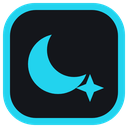
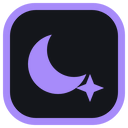
v1.0.2

Changed region(s): [[0.0, 0.0, 1.0, 1.0], [0.2188, 0.25, 0.8125, 0.8125]]

diff --git a/firefox/popup.js b/firefox/popup.js
@@ -30,9 +30,8 @@ const TXT = {
       lists: ['Lista pública de anuncios', 'Suma miles de dominios de publicidad conocidos (lista de Peter Lowe). Se actualiza sola cada 3 días.'],
       ytads: ['Anuncios de YouTube', 'Corta el anuncio al empezar el video; si no puede, va silenciado y a x2. YouTube cambia seguido y puede fallar.'],
       twads: ['Anuncios de Twitch', 'Silencia el anuncio mientras dura y saca los de la portada. En los canales no se pueden quitar con calidad completa.'],
-      tw360: ['Twitch en 360p sin anuncios', 'Necesita "Anuncios de Twitch". Pide todos los directos en 360p, que vienen sin anuncios. Pierde calidad en todos los canales.'],
+      kickads: ['Anuncios de Kick', 'Corta los videos de publicidad y los banners de Kick. El directo sigue con su calidad normal.'],
       vqa: ['YouTube: calidad automática', 'Fija la calidad más alta que aprovecha tu pantalla y tu red (red floja: solo la usa de tope).'],
-      vq: ['YouTube a 480p máx.', 'Usa menos RAM, GPU y datos. Baja la nitidez.'],
     },
   },
   en: {
@@ -66,19 +65,20 @@ const TXT = {
       lists: ['Public ad list', 'Adds thousands of known ad domains (Peter Lowe list). Updates itself every 3 days.'],
       ytads: ['YouTube ads', 'Cuts the ad when the video starts; if it cannot, it plays muted at 2x. YouTube changes often and this can break.'],
       twads: ['Twitch ads', 'Mutes the ad while it lasts and removes the ones on the home page. On channels they cannot be removed at full quality.'],
-      tw360: ['Twitch 360p without ads', 'Needs "Twitch ads". Requests every stream at 360p, which comes without ads. Lowers quality on every channel.'],
+      kickads: ['Kick ads', 'Cuts Kick video ads and banners. The stream keeps its normal quality.'],
       vqa: ['YouTube: auto quality', 'Sets the highest quality your screen and network can use (weak network: only as a cap).'],
-      vq: ['YouTube 480p max', 'Uses less RAM, GPU and data. Lowers sharpness.'],
     },
   },
 };
-const GROUPS = { sleep: ['discard'], guard: ['gramOn', 'gcpuOn', 'ghard'], speed: ['pip', 'motion', 'cpu', 'lazy', 'preload', 'bgvideo', 'fonts', 'images', 'mobile', 'vqa', 'vq'], ads: ['trackers', 'lists', 'ytads', 'twads', 'tw360'] };
+const GROUPS = { sleep: ['discard'], guard: ['gramOn', 'gcpuOn', 'ghard'], speed: ['pip', 'motion', 'cpu', 'lazy', 'preload', 'bgvideo', 'fonts', 'images', 'mobile', 'vqa'], ads: ['trackers', 'lists', 'ytads', 'twads', 'kickads'] };
 
-// Tips: [¿aplica con esta config?, es, en]. Solo aparecen los que todavía no aprovechás.
+// Tips: [¿aplica con esta config?, es, en]. Solo aparecen los que todavía no aprovechás: nunca uno sobre una función de Hiber que ya está activa.
 const COMMON = [
   [(s) => !s.discard, 'Activá "Dormir pestañas" acá: es lo que más memoria libera.', 'Turn on "Sleep tabs" here: it frees the most memory.'],
   [(s) => !s.trackers, 'Activá "Bloquear anuncios": menos red y menos CPU.', 'Turn on "Block ads": less network and CPU.'],
   [(s) => !s.ytads, 'Si mirás mucho YouTube, activá "Anuncios de YouTube".', 'If you watch a lot of YouTube, turn on "YouTube ads".'],
+  [(s) => !s.twads, 'Si mirás Twitch, activá "Anuncios de Twitch".', 'If you watch Twitch, turn on "Twitch ads".'],
+  [(s) => !s.kickads, 'Si mirás Kick, activá "Anuncios de Kick".', 'If you watch Kick, turn on "Kick ads".'],
   [(s) => !s.preload, 'Activá "Deshabilitar precarga de páginas": el navegador deja de bajar páginas que no abrís.', 'Turn on "Disable page preloading": the browser stops fetching pages you don\'t open.'],
   [(s) => !s.motion, 'Activá "Sin animaciones": menos CPU y GPU.', 'Turn on "No animations": less CPU and GPU.'],
   [(s) => !s.images, 'Probá "Sin imágenes": las fotos son lo que más pesa en casi toda web.', 'Try "No images": photos are the heaviest part of most pages.'],
@@ -88,7 +88,6 @@ const BROWSER_TIPS = {
   chrome: [
     [() => true, 'Ajustes › Sistema: apagá "Seguir ejecutando aplicaciones en segundo plano al cerrar Chrome".', 'Settings › System: turn off "Continue running background apps when Chrome is closed".'],
     [() => true, 'Ajustes › Rendimiento: activá "Ahorro de memoria" (Memory Saver); complementa a "Dormir pestañas" de Hiber.', 'Settings › Performance: turn on "Memory Saver"; it complements Hiber\'s "Sleep tabs".'],
-    [() => true, 'Ajustes › Rendimiento (o Privacidad › Cookies): activá "Precargar páginas" (Preload pages) para que navegar se sienta más rápido.', 'Settings › Performance (or Privacy › Cookies): turn on "Preload pages" to make browsing feel faster.'],
     [() => true, 'chrome://flags/#override-cpu-performance-tier: dejalo en "Don\'t override" (no lo fuerces) para que Chrome use el nivel real de tu CPU.', 'chrome://flags/#override-cpu-performance-tier: keep it on "Don\'t override" so Chrome uses your CPU\'s real tier.'],
     [() => true, 'Shift+Esc abre el administrador de tareas de Chrome: ahí ves qué pestaña o extensión pesa.', 'Shift+Esc opens Chrome\'s task manager: see which tab or extension is heavy.'],  ],
   edge: [
@@ -97,21 +96,18 @@ const BROWSER_TIPS = {
     [() => true, 'Shift+Esc: administrador de tareas del navegador. Apagá la barra lateral y Copilot si no los usás.', 'Shift+Esc: browser task manager. Turn off the sidebar and Copilot if you don\'t use them.'],
   ],
   brave: [
-    [(s) => s.trackers, 'Brave Shields ya bloquea anuncios y rastreadores: con Shields en "Agresivo" podés apagar "Bloquear anuncios" acá para no duplicar.', 'Brave Shields already blocks ads and trackers: with Shields on "Aggressive" you can turn off "Block ads" here to avoid doubling up.'],
-    [(s) => s.ytads, 'Brave también corta anuncios de YouTube. Si ves algo raro en YouTube, apagá "Anuncios de YouTube" acá.', 'Brave also blocks YouTube ads. If YouTube acts weird, turn off "YouTube ads" here.'],
     [() => true, 'brave://settings: sacá Rewards, News, Talk, Wallet, VPN y Leo de la barra lateral y de la página nueva: menos procesos.', 'brave://settings: remove Rewards, News, Talk, Wallet, VPN and Leo from the sidebar and new tab page: fewer processes.'],
     [(s) => !s.discard, 'brave://settings/system: activá "Ahorro de memoria" (o "Dormir pestañas" de Hiber).', 'brave://settings/system: turn on "Memory Saver" (or Hiber\'s "Sleep tabs").'],
   ],
   opera: [
     [() => true, 'Si usás Opera GX: en GX Control poné un límite de RAM/CPU y activá "Hot Tabs Killer". Hiber lo complementa.', 'If you use Opera GX: in GX Control set a RAM/CPU limit and turn on "Hot Tabs Killer". Hiber complements it.'],
-    [(s) => s.trackers, 'Opera trae su propio bloqueador (Ajustes › Bloqueador de anuncios). Con uno solo alcanza: si activás el de Opera, apagá "Bloquear anuncios" acá.', 'Opera has its own blocker (Settings › Ad blocker). One is enough: if you turn Opera\'s on, turn off "Block ads" here.'],
     [() => true, 'Apagá GX Corner, los sonidos/música de fondo, Fast Action Links y la VPN gratis si no los usás.', 'Turn off GX Corner, background sounds/music, Fast Action Links and the free VPN if you don\'t use them.'],
     [() => true, 'Shift+Esc: administrador de tareas del navegador.', 'Shift+Esc: browser task manager.'],
   ],
   firefox: [
     [() => true, 'about:processes es el administrador de tareas de Firefox: ahí ves qué pestaña pesa.', 'about:processes is Firefox\'s task manager: see which tab is heavy.'],
     [() => true, 'about:preferences#general › Rendimiento: desmarcá "Usar la configuración de rendimiento recomendada" y bajá el límite de procesos de contenido.', 'about:preferences#general › Performance: untick "Use recommended performance settings" and lower the content process limit.'],
-    [(s) => s.trackers, 'about:preferences#privacy: la Protección antirrastreo "Estricta" complementa a Hiber.', 'about:preferences#privacy: "Strict" Enhanced Tracking Protection complements Hiber.'],
+    [() => true, 'about:preferences#privacy: la Protección antirrastreo "Estricta" complementa a Hiber.', 'about:preferences#privacy: "Strict" Enhanced Tracking Protection complements Hiber.'],
     [() => true, 'Firefox no deja abrir sus ajustes desde una extensión: andá a esas direcciones a mano.', 'Firefox won\'t let extensions open its settings: visit those addresses yourself.'],
   ],
 };

diff --git a/popup.js b/popup.js
@@ -30,9 +30,8 @@ const TXT = {
       lists: ['Lista pública de anuncios', 'Suma miles de dominios de publicidad conocidos (lista de Peter Lowe). Se actualiza sola cada 3 días.'],
       ytads: ['Anuncios de YouTube', 'Corta el anuncio al empezar el video; si no puede, va silenciado y a x2. YouTube cambia seguido y puede fallar.'],
       twads: ['Anuncios de Twitch', 'Silencia el anuncio mientras dura y saca los de la portada. En los canales no se pueden quitar con calidad completa.'],
-      tw360: ['Twitch en 360p sin anuncios', 'Necesita "Anuncios de Twitch". Pide todos los directos en 360p, que vienen sin anuncios. Pierde calidad en todos los canales.'],
+      kickads: ['Anuncios de Kick', 'Corta los videos de publicidad y los banners de Kick. El directo sigue con su calidad normal.'],
       vqa: ['YouTube: calidad automática', 'Fija la calidad más alta que aprovecha tu pantalla y tu red (red floja: solo la usa de tope).'],
-      vq: ['YouTube a 480p máx.', 'Usa menos RAM, GPU y datos. Baja la nitidez.'],
     },
   },
   en: {
@@ -66,19 +65,20 @@ const TXT = {
       lists: ['Public ad list', 'Adds thousands of known ad domains (Peter Lowe list). Updates itself every 3 days.'],
       ytads: ['YouTube ads', 'Cuts the ad when the video starts; if it cannot, it plays muted at 2x. YouTube changes often and this can break.'],
       twads: ['Twitch ads', 'Mutes the ad while it lasts and removes the ones on the home page. On channels they cannot be removed at full quality.'],
-      tw360: ['Twitch 360p without ads', 'Needs "Twitch ads". Requests every stream at 360p, which comes without ads. Lowers quality on every channel.'],
+      kickads: ['Kick ads', 'Cuts Kick video ads and banners. The stream keeps its normal quality.'],
       vqa: ['YouTube: auto quality', 'Sets the highest quality your screen and network can use (weak network: only as a cap).'],
-      vq: ['YouTube 480p max', 'Uses less RAM, GPU and data. Lowers sharpness.'],
     },
   },
 };
-const GROUPS = { sleep: ['discard'], guard: ['gramOn', 'gcpuOn', 'ghard'], speed: ['pip', 'motion', 'cpu', 'lazy', 'preload', 'bgvideo', 'fonts', 'images', 'mobile', 'vqa', 'vq'], ads: ['trackers', 'lists', 'ytads', 'twads', 'tw360'] };
+const GROUPS = { sleep: ['discard'], guard: ['gramOn', 'gcpuOn', 'ghard'], speed: ['pip', 'motion', 'cpu', 'lazy', 'preload', 'bgvideo', 'fonts', 'images', 'mobile', 'vqa'], ads: ['trackers', 'lists', 'ytads', 'twads', 'kickads'] };
 
-// Tips: [¿aplica con esta config?, es, en]. Solo aparecen los que todavía no aprovechás.
+// Tips: [¿aplica con esta config?, es, en]. Solo aparecen los que todavía no aprovechás: nunca uno sobre una función de Hiber que ya está activa.
 const COMMON = [
   [(s) => !s.discard, 'Activá "Dormir pestañas" acá: es lo que más memoria libera.', 'Turn on "Sleep tabs" here: it frees the most memory.'],
   [(s) => !s.trackers, 'Activá "Bloquear anuncios": menos red y menos CPU.', 'Turn on "Block ads": less network and CPU.'],
   [(s) => !s.ytads, 'Si mirás mucho YouTube, activá "Anuncios de YouTube".', 'If you watch a lot of YouTube, turn on "YouTube ads".'],
+  [(s) => !s.twads, 'Si mirás Twitch, activá "Anuncios de Twitch".', 'If you watch Twitch, turn on "Twitch ads".'],
+  [(s) => !s.kickads, 'Si mirás Kick, activá "Anuncios de Kick".', 'If you watch Kick, turn on "Kick ads".'],
   [(s) => !s.preload, 'Activá "Deshabilitar precarga de páginas": el navegador deja de bajar páginas que no abrís.', 'Turn on "Disable page preloading": the browser stops fetching pages you don\'t open.'],
   [(s) => !s.motion, 'Activá "Sin animaciones": menos CPU y GPU.', 'Turn on "No animations": less CPU and GPU.'],
   [(s) => !s.images, 'Probá "Sin imágenes": las fotos son lo que más pesa en casi toda web.', 'Try "No images": photos are the heaviest part of most pages.'],
@@ -88,7 +88,6 @@ const BROWSER_TIPS = {
   chrome: [
     [() => true, 'Ajustes › Sistema: apagá "Seguir ejecutando aplicaciones en segundo plano al cerrar Chrome".', 'Settings › System: turn off "Continue running background apps when Chrome is closed".'],
     [() => true, 'Ajustes › Rendimiento: activá "Ahorro de memoria" (Memory Saver); complementa a "Dormir pestañas" de Hiber.', 'Settings › Performance: turn on "Memory Saver"; it complements Hiber\'s "Sleep tabs".'],
-    [() => true, 'Ajustes › Rendimiento (o Privacidad › Cookies): activá "Precargar páginas" (Preload pages) para que navegar se sienta más rápido.', 'Settings › Performance (or Privacy › Cookies): turn on "Preload pages" to make browsing feel faster.'],
     [() => true, 'chrome://flags/#override-cpu-performance-tier: dejalo en "Don\'t override" (no lo fuerces) para que Chrome use el nivel real de tu CPU.', 'chrome://flags/#override-cpu-performance-tier: keep it on "Don\'t override" so Chrome uses your CPU\'s real tier.'],
     [() => true, 'Shift+Esc abre el administrador de tareas de Chrome: ahí ves qué pestaña o extensión pesa.', 'Shift+Esc opens Chrome\'s task manager: see which tab or extension is heavy.'],  ],
   edge: [
@@ -97,21 +96,18 @@ const BROWSER_TIPS = {
     [() => true, 'Shift+Esc: administrador de tareas del navegador. Apagá la barra lateral y Copilot si no los usás.', 'Shift+Esc: browser task manager. Turn off the sidebar and Copilot if you don\'t use them.'],
   ],
   brave: [
-    [(s) => s.trackers, 'Brave Shields ya bloquea anuncios y rastreadores: con Shields en "Agresivo" podés apagar "Bloquear anuncios" acá para no duplicar.', 'Brave Shields already blocks ads and trackers: with Shields on "Aggressive" you can turn off "Block ads" here to avoid doubling up.'],
-    [(s) => s.ytads, 'Brave también corta anuncios de YouTube. Si ves algo raro en YouTube, apagá "Anuncios de YouTube" acá.', 'Brave also blocks YouTube ads. If YouTube acts weird, turn off "YouTube ads" here.'],
     [() => true, 'brave://settings: sacá Rewards, News, Talk, Wallet, VPN y Leo de la barra lateral y de la página nueva: menos procesos.', 'brave://settings: remove Rewards, News, Talk, Wallet, VPN and Leo from the sidebar and new tab page: fewer processes.'],
     [(s) => !s.discard, 'brave://settings/system: activá "Ahorro de memoria" (o "Dormir pestañas" de Hiber).', 'brave://settings/system: turn on "Memory Saver" (or Hiber\'s "Sleep tabs").'],
   ],
   opera: [
     [() => true, 'Si usás Opera GX: en GX Control poné un límite de RAM/CPU y activá "Hot Tabs Killer". Hiber lo complementa.', 'If you use Opera GX: in GX Control set a RAM/CPU limit and turn on "Hot Tabs Killer". Hiber complements it.'],
-    [(s) => s.trackers, 'Opera trae su propio bloqueador (Ajustes › Bloqueador de anuncios). Con uno solo alcanza: si activás el de Opera, apagá "Bloquear anuncios" acá.', 'Opera has its own blocker (Settings › Ad blocker). One is enough: if you turn Opera\'s on, turn off "Block ads" here.'],
     [() => true, 'Apagá GX Corner, los sonidos/música de fondo, Fast Action Links y la VPN gratis si no los usás.', 'Turn off GX Corner, background sounds/music, Fast Action Links and the free VPN if you don\'t use them.'],
     [() => true, 'Shift+Esc: administrador de tareas del navegador.', 'Shift+Esc: browser task manager.'],
   ],
   firefox: [
     [() => true, 'about:processes es el administrador de tareas de Firefox: ahí ves qué pestaña pesa.', 'about:processes is Firefox\'s task manager: see which tab is heavy.'],
     [() => true, 'about:preferences#general › Rendimiento: desmarcá "Usar la configuración de rendimiento recomendada" y bajá el límite de procesos de contenido.', 'about:preferences#general › Performance: untick "Use recommended performance settings" and lower the content process limit.'],
-    [(s) => s.trackers, 'about:preferences#privacy: la Protección antirrastreo "Estricta" complementa a Hiber.', 'about:preferences#privacy: "Strict" Enhanced Tracking Protection complements Hiber.'],
+    [() => true, 'about:preferences#privacy: la Protección antirrastreo "Estricta" complementa a Hiber.', 'about:preferences#privacy: "Strict" Enhanced Tracking Protection complements Hiber.'],
     [() => true, 'Firefox no deja abrir sus ajustes desde una extensión: andá a esas direcciones a mano.', 'Firefox won\'t let extensions open its settings: visit those addresses yourself.'],
   ],
 };

diff --git a/background.js b/background.js
@@ -14,7 +14,12 @@ const TRACKERS = ['subduepaler.cyou', 'agl003.com', 'slunkenfulgora.click', 'dou
   'effectivegatecpm.com', 'profitableratecpm.com', 'highperformanceformat.com', 'dolohen.com', 'acscdn.com', 'adsco.re', 'cdn4ads.com', 'trafficstars.com', 'popunder.net', 'ay267.com', 'painamour.com', 'catrck.net', 'histats.com', 'exosrv.com', 'magsrv.com', 'pemsrv.com', 'galaksion.com', 'evadav.com', 'clickaine.com', 'adspyglass.com', 'popmyads.com'];
 const POPUNDER = ['catrck.net', 'exosrv.com', 'magsrv.com', 'popmyads.com', 'clickaine.com', '073m.com', 'ay267.com', 'painamour.com', 'popads.net', 'propellerads.com', 'popcash.net', 'clickadu.com', 'hilltopads.net', 'onclickads.net', 'popunder.net', 'propu.sh', 'realsrv.com', 'exoclick.com', 'juicyads.com'];
 const MOBILE_UA = 'Mozilla/5.0 (Linux; Android 14; Pixel 8) AppleWebKit/537.36 (KHTML, like Gecko) Chrome/130.0.0.0 Mobile Safari/537.36';
-const RULE_IDS = [1, 2, 3, 4, 5, 6, 7, 8, 9, 10];
+const RULE_IDS = [1, 2, 3, 4, 5, 6, 7, 8, 9, 10, 11];
+// Kick: el directo (Amazon IVS) no trae anuncios adentro; los videos van por Google IMA (imasdk) y los banners por GPT/doubleclick.
+// Sin el SDK de IMA el reproductor sigue con el directo (probado nov 2026). Solo pedidos que salen de kick.com: no toca otros sitios.
+const KICK_ADS = ['imasdk.googleapis.com', 'doubleclick.net', 'googlesyndication.com', 'googletagservices.com', 'googleadservices.com',
+  '2mdn.net', 'adtrafficquality.google', 'amazon-adsystem.com', 'criteo.com', 'criteo.net', 'openx.net', 'openxcdn.net', 'id5-sync.com',
+  'creativecdn.com', 'pubmatic.com', 'rubiconproject.com', 'adnxs.com'];
 // Rutas típicas de anuncios (complementa la lista de dominios).
 // Sin "/ads/" genérico ni xhr/other: cortaban manifiestos y APIs de reproductores (el video no cargaba hasta recargar).
 const AD_PATH = '^https?://[^/]+/.*(/pagead/|/adserver/|/adframe|/banner[_-]?ads?/|/doubleclick/)';
@@ -92,6 +97,8 @@ async function applyRulesNow() {
     // Afiliados de apuestas (refpa1234.com, rotan de número): ni se cargan como página.
     if (s.trackers) add.push({ id: 8, action: { type: 'block' },
       condition: { regexFilter: '^https?://([^/]*[.])?refpa[0-9]+[.][a-z]+/', resourceTypes: ['main_frame', 'sub_frame'] } });
+    if (s.kickads) add.push({ id: 11, action: { type: 'block' },
+      condition: { requestDomains: KICK_ADS, initiatorDomains: ['kick.com'], resourceTypes: ['script', 'image', 'xmlhttprequest', 'sub_frame', 'ping', 'media', 'other'] } });
     if (s.fonts) add.push({ id: 2, action: { type: 'block' }, condition: { resourceTypes: ['font'] } });
     if (s.images) add.push({ id: 3, action: { type: 'block' }, condition: { resourceTypes: ['image'] } });
     if (s.mobile) add.push({ id: 4, action: { type: 'modifyHeaders', requestHeaders: [
@@ -144,7 +151,9 @@ async function sweep(force, idle, all) {
 async function checkUpdate() {
   if (REPO.startsWith('USUARIO')) return;
   try {
-    const v = (await (await fetch(`https://raw.githubusercontent.com/${REPO}/main/version.txt`, { cache: 'no-store' })).text()).trim();
+    const r = await fetch(`https://raw.githubusercontent.com/${REPO}/main/version.txt`, { cache: 'no-store' });
+    const v = (await r.text()).trim();
+    if (!r.ok || !/^\d+(\.\d+){0,3}$/.test(v)) return; // 404, límite de GitHub o portal cautivo: no guardar basura como versión
     await chrome.storage.local.set({ upd: v });
     const old = newer(v, chrome.runtime.getManifest().version);
     chrome.action.setBadgeText({ text: old ? '!' : '' });

diff --git a/firefox/background.js b/firefox/background.js
@@ -14,7 +14,12 @@ const TRACKERS = ['subduepaler.cyou', 'agl003.com', 'slunkenfulgora.click', 'dou
   'effectivegatecpm.com', 'profitableratecpm.com', 'highperformanceformat.com', 'dolohen.com', 'acscdn.com', 'adsco.re', 'cdn4ads.com', 'trafficstars.com', 'popunder.net', 'ay267.com', 'painamour.com', 'catrck.net', 'histats.com', 'exosrv.com', 'magsrv.com', 'pemsrv.com', 'galaksion.com', 'evadav.com', 'clickaine.com', 'adspyglass.com', 'popmyads.com'];
 const POPUNDER = ['catrck.net', 'exosrv.com', 'magsrv.com', 'popmyads.com', 'clickaine.com', '073m.com', 'ay267.com', 'painamour.com', 'popads.net', 'propellerads.com', 'popcash.net', 'clickadu.com', 'hilltopads.net', 'onclickads.net', 'popunder.net', 'propu.sh', 'realsrv.com', 'exoclick.com', 'juicyads.com'];
 const MOBILE_UA = 'Mozilla/5.0 (Linux; Android 14; Pixel 8) AppleWebKit/537.36 (KHTML, like Gecko) Chrome/130.0.0.0 Mobile Safari/537.36';
-const RULE_IDS = [1, 2, 3, 4, 5, 6, 7, 8, 9, 10];
+const RULE_IDS = [1, 2, 3, 4, 5, 6, 7, 8, 9, 10, 11];
+// Kick: el directo (Amazon IVS) no trae anuncios adentro; los videos van por Google IMA (imasdk) y los banners por GPT/doubleclick.
+// Sin el SDK de IMA el reproductor sigue con el directo (probado nov 2026). Solo pedidos que salen de kick.com: no toca otros sitios.
+const KICK_ADS = ['imasdk.googleapis.com', 'doubleclick.net', 'googlesyndication.com', 'googletagservices.com', 'googleadservices.com',
+  '2mdn.net', 'adtrafficquality.google', 'amazon-adsystem.com', 'criteo.com', 'criteo.net', 'openx.net', 'openxcdn.net', 'id5-sync.com',
+  'creativecdn.com', 'pubmatic.com', 'rubiconproject.com', 'adnxs.com'];
 // Rutas típicas de anuncios (complementa la lista de dominios).
 // Sin "/ads/" genérico ni xhr/other: cortaban manifiestos y APIs de reproductores (el video no cargaba hasta recargar).
 const AD_PATH = '^https?://[^/]+/.*(/pagead/|/adserver/|/adframe|/banner[_-]?ads?/|/doubleclick/)';
@@ -92,6 +97,8 @@ async function applyRulesNow() {
     // Afiliados de apuestas (refpa1234.com, rotan de número): ni se cargan como página.
     if (s.trackers) add.push({ id: 8, action: { type: 'block' },
       condition: { regexFilter: '^https?://([^/]*[.])?refpa[0-9]+[.][a-z]+/', resourceTypes: ['main_frame', 'sub_frame'] } });
+    if (s.kickads) add.push({ id: 11, action: { type: 'block' },
+      condition: { requestDomains: KICK_ADS, initiatorDomains: ['kick.com'], resourceTypes: ['script', 'image', 'xmlhttprequest', 'sub_frame', 'ping', 'media', 'other'] } });
     if (s.fonts) add.push({ id: 2, action: { type: 'block' }, condition: { resourceTypes: ['font'] } });
     if (s.images) add.push({ id: 3, action: { type: 'block' }, condition: { resourceTypes: ['image'] } });
     if (s.mobile) add.push({ id: 4, action: { type: 'modifyHeaders', requestHeaders: [
@@ -144,7 +151,9 @@ async function sweep(force, idle, all) {
 async function checkUpdate() {
   if (REPO.startsWith('USUARIO')) return;
   try {
-    const v = (await (await fetch(`https://raw.githubusercontent.com/${REPO}/main/version.txt`, { cache: 'no-store' })).text()).trim();
+    const r = await fetch(`https://raw.githubusercontent.com/${REPO}/main/version.txt`, { cache: 'no-store' });
+    const v = (await r.text()).trim();
+    if (!r.ok || !/^\d+(\.\d+){0,3}$/.test(v)) return; // 404, límite de GitHub o portal cautivo: no guardar basura como versión
     await chrome.storage.local.set({ upd: v });
     const old = newer(v, chrome.runtime.getManifest().version);
     chrome.action.setBadgeText({ text: old ? '!' : '' });

diff --git a/firefox/twitch.js b/firefox/twitch.js
@@ -1,10 +1,10 @@
-// Anuncios de Twitch. Corre en el mundo de la página; se apaga con <html data-hiber-yt="0"> (el mismo interruptor que YouTube).
+// Anuncios de Twitch. Corre en el mundo de la página; se apaga con <html data-hiber-twa="0"> (interruptor "Anuncios de Twitch").
 // Twitch pega los anuncios dentro del stream, así que no se pueden bloquear por red. Probado (nov 2026): embed, popout, autoplay,
 // picture-by-picture y sus variantes ios/android traen anuncio; solo autoplay+android viene sin anuncio, pero con tope de 360p.
 // Por eso en la portada se usa siempre y en los canales solo durante el corte (ver abajo); si eso falla, el anuncio se silencia.
 // Twitch cambia esto seguido: si deja de andar, revisar primero acá.
 (() => {
-  const on = () => document.documentElement?.dataset.hiberYt !== '0';
+  const on = () => document.documentElement?.dataset.hiberTwa !== '0';
   // Mientras la playlist del directo trae un corte ("stitched"), el reproductor recibe la de un pedido autoplay/android
   // (sin anuncio, hasta 360p); al terminar vuelve a la normal. El reproductor baja las playlists desde un Worker: se envuelve.
   const subs = {}, workers = [];
@@ -15,14 +15,14 @@
       if (on() && typeof init?.body === 'string' && init.body.includes('PlaybackAccessToken')) {
         const b = JSON.parse(init.body);
         const live = [].concat(b).find((q) => q?.variables?.isLive && q.variables.login && q.variables.playerType !== 'frontpage');
-        if (live && document.documentElement.dataset.hiberTw !== '1') {
+        if (live) {
           const v = { ...live.variables, playerType: 'autoplay', platform: 'android' };
           fetch0.call(window, input, { ...init, body: JSON.stringify({ ...live, variables: v }) }).then((r) => r.json()).then((j) => {
             const t = [].concat(j)[0]?.data?.streamPlaybackAccessToken;
             if (t) tell(subs[v.login.toLowerCase()] = { login: v.login.toLowerCase(), token: t.value, sig: t.signature });
           }).catch(() => {});
         }
-        for (const q of [].concat(b)) if (q?.variables?.playerType === 'frontpage' || (q?.variables?.playerType && document.documentElement.dataset.hiberTw === '1')) Object.assign(q.variables, { playerType: 'autoplay', platform: 'android' });
+        for (const q of [].concat(b)) if (q?.variables?.playerType === 'frontpage') Object.assign(q.variables, { playerType: 'autoplay', platform: 'android' });
         init = { ...init, body: JSON.stringify(b) };
       }
     } catch { /* cuerpo raro: se manda tal cual */ }

diff --git a/twitch.js b/twitch.js
@@ -1,10 +1,10 @@
-// Anuncios de Twitch. Corre en el mundo de la página; se apaga con <html data-hiber-yt="0"> (el mismo interruptor que YouTube).
+// Anuncios de Twitch. Corre en el mundo de la página; se apaga con <html data-hiber-twa="0"> (interruptor "Anuncios de Twitch").
 // Twitch pega los anuncios dentro del stream, así que no se pueden bloquear por red. Probado (nov 2026): embed, popout, autoplay,
 // picture-by-picture y sus variantes ios/android traen anuncio; solo autoplay+android viene sin anuncio, pero con tope de 360p.
 // Por eso en la portada se usa siempre y en los canales solo durante el corte (ver abajo); si eso falla, el anuncio se silencia.
 // Twitch cambia esto seguido: si deja de andar, revisar primero acá.
 (() => {
-  const on = () => document.documentElement?.dataset.hiberYt !== '0';
+  const on = () => document.documentElement?.dataset.hiberTwa !== '0';
   // Mientras la playlist del directo trae un corte ("stitched"), el reproductor recibe la de un pedido autoplay/android
   // (sin anuncio, hasta 360p); al terminar vuelve a la normal. El reproductor baja las playlists desde un Worker: se envuelve.
   const subs = {}, workers = [];
@@ -15,14 +15,14 @@
       if (on() && typeof init?.body === 'string' && init.body.includes('PlaybackAccessToken')) {
         const b = JSON.parse(init.body);
         const live = [].concat(b).find((q) => q?.variables?.isLive && q.variables.login && q.variables.playerType !== 'frontpage');
-        if (live && document.documentElement.dataset.hiberTw !== '1') {
+        if (live) {
           const v = { ...live.variables, playerType: 'autoplay', platform: 'android' };
           fetch0.call(window, input, { ...init, body: JSON.stringify({ ...live, variables: v }) }).then((r) => r.json()).then((j) => {
             const t = [].concat(j)[0]?.data?.streamPlaybackAccessToken;
             if (t) tell(subs[v.login.toLowerCase()] = { login: v.login.toLowerCase(), token: t.value, sig: t.signature });
           }).catch(() => {});
         }
-        for (const q of [].concat(b)) if (q?.variables?.playerType === 'frontpage' || (q?.variables?.playerType && document.documentElement.dataset.hiberTw === '1')) Object.assign(q.variables, { playerType: 'autoplay', platform: 'android' });
+        for (const q of [].concat(b)) if (q?.variables?.playerType === 'frontpage') Object.assign(q.variables, { playerType: 'autoplay', platform: 'android' });
         init = { ...init, body: JSON.stringify(b) };
       }
     } catch { /* cuerpo raro: se manda tal cual */ }

diff --git a/firefox/popup.html b/firefox/popup.html
@@ -4,10 +4,11 @@
 <meta charset="utf-8">
 <style>
   :root{--f:'Segoe UI Variable Text','Segoe UI',system-ui,-apple-system,Roboto,sans-serif;
-    --bg:#eef8fe;--card:#fff;--fg:#0c2a3b;--mut:#5a7b8f;--line:#d3e8f4;--ac:#38bdf8;--act:#0369a1;--on:#04202e;--glow:#bfe8fb;color-scheme:light}
-  @media (prefers-color-scheme:dark){:root:not([data-theme=light]){--bg:#07131c;--card:#0d2030;--fg:#e4f3fc;--mut:#8db0c5;--line:#1c3648;--ac:#38bdf8;--act:#7dd3fc;--on:#04202e;--glow:#12425e;color-scheme:dark}}
-  :root[data-theme=dark]{--bg:#07131c;--card:#0d2030;--fg:#e4f3fc;--mut:#8db0c5;--line:#1c3648;--ac:#38bdf8;--act:#7dd3fc;--on:#04202e;--glow:#12425e;color-scheme:dark}
+    --bg:#f5f3fb;--card:#fff;--fg:#1a1824;--mut:#5d5970;--line:#e2ddf0;--ac:#a78bfa;--act:#6d28d9;--on:#1e1238;--glow:#ddd6fe;color-scheme:light}
+  @media (prefers-color-scheme:dark){:root:not([data-theme=light]){--bg:#14161b;--card:#1d1f27;--fg:#eeecf6;--mut:#a5a1b6;--line:#2f2c3c;--ac:#a78bfa;--act:#c4b5fd;--on:#1e1238;--glow:#352a5c;color-scheme:dark}}
+  :root[data-theme=dark]{--bg:#14161b;--card:#1d1f27;--fg:#eeecf6;--mut:#a5a1b6;--line:#2f2c3c;--ac:#a78bfa;--act:#c4b5fd;--on:#1e1238;--glow:#352a5c;color-scheme:dark}
   *{box-sizing:border-box}
+  html{accent-color:var(--ac)} ::selection{background:var(--glow)} :focus-visible{outline:2px solid var(--act);outline-offset:2px}
   body{margin:0;width:370px;padding:16px 14px 14px;background:var(--bg);color:var(--fg);font:13.5px/1.4 var(--f)}
   header{display:flex;align-items:center;gap:10px}
   header img{width:38px;height:38px;border-radius:10px;display:block}

diff --git a/popup.html b/popup.html
@@ -4,10 +4,11 @@
 <meta charset="utf-8">
 <style>
   :root{--f:'Segoe UI Variable Text','Segoe UI',system-ui,-apple-system,Roboto,sans-serif;
-    --bg:#eef8fe;--card:#fff;--fg:#0c2a3b;--mut:#5a7b8f;--line:#d3e8f4;--ac:#38bdf8;--act:#0369a1;--on:#04202e;--glow:#bfe8fb;color-scheme:light}
-  @media (prefers-color-scheme:dark){:root:not([data-theme=light]){--bg:#07131c;--card:#0d2030;--fg:#e4f3fc;--mut:#8db0c5;--line:#1c3648;--ac:#38bdf8;--act:#7dd3fc;--on:#04202e;--glow:#12425e;color-scheme:dark}}
-  :root[data-theme=dark]{--bg:#07131c;--card:#0d2030;--fg:#e4f3fc;--mut:#8db0c5;--line:#1c3648;--ac:#38bdf8;--act:#7dd3fc;--on:#04202e;--glow:#12425e;color-scheme:dark}
+    --bg:#f5f3fb;--card:#fff;--fg:#1a1824;--mut:#5d5970;--line:#e2ddf0;--ac:#a78bfa;--act:#6d28d9;--on:#1e1238;--glow:#ddd6fe;color-scheme:light}
+  @media (prefers-color-scheme:dark){:root:not([data-theme=light]){--bg:#14161b;--card:#1d1f27;--fg:#eeecf6;--mut:#a5a1b6;--line:#2f2c3c;--ac:#a78bfa;--act:#c4b5fd;--on:#1e1238;--glow:#352a5c;color-scheme:dark}}
+  :root[data-theme=dark]{--bg:#14161b;--card:#1d1f27;--fg:#eeecf6;--mut:#a5a1b6;--line:#2f2c3c;--ac:#a78bfa;--act:#c4b5fd;--on:#1e1238;--glow:#352a5c;color-scheme:dark}
   *{box-sizing:border-box}
+  html{accent-color:var(--ac)} ::selection{background:var(--glow)} :focus-visible{outline:2px solid var(--act);outline-offset:2px}
   body{margin:0;width:370px;padding:16px 14px 14px;background:var(--bg);color:var(--fg);font:13.5px/1.4 var(--f)}
   header{display:flex;align-items:center;gap:10px}
   header img{width:38px;height:38px;border-radius:10px;display:block}

diff --git a/content.js b/content.js
@@ -24,12 +24,12 @@ function apply() {
   // YouTube: oculta lo que quede de anuncios (el grueso lo corta yt.js). Sin .ytp-ad-module: ahí vive "Saltar", que solo anda con un clic real.
   // #player-ads solo dentro de la página de video: YouTube pone uno suelto de cebo y, si sale oculto, lo anota como bloqueador.
   if (s.on && s.ytads && yt) css += '#masthead-ad,ytd-watch-flexy #player-ads,.ytp-ad-overlay-container,ytd-ad-slot-renderer,ytd-in-feed-ad-layout-renderer,ytd-banner-promo-renderer,ytd-promoted-sparkles-web-renderer,ytd-display-ad-renderer,ytd-statement-banner-renderer,ytd-companion-slot-renderer,ytd-player-legacy-desktop-watch-ads-renderer,ytd-enforcement-message-view-model,tp-yt-paper-dialog:has(ytd-enforcement-message-view-model){display:none!important}#movie_player.ad-showing video{opacity:0!important}';
+  // Kick: el hueco del banner de arriba del canal (el anuncio en sí lo corta la regla 11 de background.js).
+  if (s.on && s.kickads && /(^|\.)kick\.com$/.test(location.hostname)) css += '[id^="channel-masthead--"]{display:none!important}';
   const h = document.documentElement;
   h.dataset.hiberYt = s.on && s.ytads ? '1' : '0';
   h.dataset.hiberTwa = s.on && s.twads ? '1' : '0';
   h.dataset.hiberPop = s.on && s.trackers ? '1' : '0';
-  h.dataset.hiberTw = s.on && s.tw360 ? '1' : '';
-  h.dataset.hiberVq = s.on && s.vq ? '1' : '';
   h.dataset.hiberVqa = s.on && s.vqa ? '1' : '';
   h.dataset.hiberMotion = calm ? '1' : '';
   h.dataset.hiberMobile = s.on && s.mobile ? '1' : '';

diff --git a/firefox/content.js b/firefox/content.js
@@ -24,12 +24,12 @@ function apply() {
   // YouTube: oculta lo que quede de anuncios (el grueso lo corta yt.js). Sin .ytp-ad-module: ahí vive "Saltar", que solo anda con un clic real.
   // #player-ads solo dentro de la página de video: YouTube pone uno suelto de cebo y, si sale oculto, lo anota como bloqueador.
   if (s.on && s.ytads && yt) css += '#masthead-ad,ytd-watch-flexy #player-ads,.ytp-ad-overlay-container,ytd-ad-slot-renderer,ytd-in-feed-ad-layout-renderer,ytd-banner-promo-renderer,ytd-promoted-sparkles-web-renderer,ytd-display-ad-renderer,ytd-statement-banner-renderer,ytd-companion-slot-renderer,ytd-player-legacy-desktop-watch-ads-renderer,ytd-enforcement-message-view-model,tp-yt-paper-dialog:has(ytd-enforcement-message-view-model){display:none!important}#movie_player.ad-showing video{opacity:0!important}';
+  // Kick: el hueco del banner de arriba del canal (el anuncio en sí lo corta la regla 11 de background.js).
+  if (s.on && s.kickads && /(^|\.)kick\.com$/.test(location.hostname)) css += '[id^="channel-masthead--"]{display:none!important}';
   const h = document.documentElement;
   h.dataset.hiberYt = s.on && s.ytads ? '1' : '0';
   h.dataset.hiberTwa = s.on && s.twads ? '1' : '0';
   h.dataset.hiberPop = s.on && s.trackers ? '1' : '0';
-  h.dataset.hiberTw = s.on && s.tw360 ? '1' : '';
-  h.dataset.hiberVq = s.on && s.vq ? '1' : '';
   h.dataset.hiberVqa = s.on && s.vqa ? '1' : '';
   h.dataset.hiberMotion = calm ? '1' : '';
   h.dataset.hiberMobile = s.on && s.mobile ? '1' : '';

diff --git a/firefox/yt.js b/firefox/yt.js
@@ -15,9 +15,8 @@
     const q = QS.find(([h]) => px >= h - 40)[1];
     return { q, good: !c || (c.effectiveType === '4g' && (!c.downlink || c.downlink >= 5)) };
   };
-  const cap = () => (document.documentElement.dataset.hiberVq === '1' ? 'large' : 'highres');
   const setQ = (mp) => {
-    if (document.documentElement.dataset.hiberVqa !== '1' || cap() === 'large') return mp.setPlaybackQualityRange?.('tiny', cap());
+    if (document.documentElement.dataset.hiberVqa !== '1') return mp.setPlaybackQualityRange?.('tiny', 'highres');
     const { q, good } = auto();
     mp.setPlaybackQualityRange?.(good ? q : 'tiny', q);
   };
@@ -32,8 +31,8 @@
   // Si aparece un anuncio se corta; mientras tanto va silenciado y a x2 (content.js lo tapa y deja "Saltar" a la vista para un clic real).
   let resume = 0, orphan = 0, wasMuted = null, capped = '', stuck = 0, last = -1;
   setInterval(() => {
-    // Tope de calidad (480p): menos RAM, GPU y datos. Se fija una vez por video.
-    const mp = (document.documentElement.dataset.hiberVq === '1' || document.documentElement.dataset.hiberVqa === '1') && document.getElementById('movie_player');
+    // Calidad automática: se fija una vez por video.
+    const mp = document.documentElement.dataset.hiberVqa === '1' && document.getElementById('movie_player');
     const id = mp?.getVideoData?.().video_id;
     if (id && id !== capped) { capped = id; setQ(mp); }
     const p = on() && document.querySelector('.html5-video-player.ad-showing');

diff --git a/yt.js b/yt.js
@@ -15,9 +15,8 @@
     const q = QS.find(([h]) => px >= h - 40)[1];
     return { q, good: !c || (c.effectiveType === '4g' && (!c.downlink || c.downlink >= 5)) };
   };
-  const cap = () => (document.documentElement.dataset.hiberVq === '1' ? 'large' : 'highres');
   const setQ = (mp) => {
-    if (document.documentElement.dataset.hiberVqa !== '1' || cap() === 'large') return mp.setPlaybackQualityRange?.('tiny', cap());
+    if (document.documentElement.dataset.hiberVqa !== '1') return mp.setPlaybackQualityRange?.('tiny', 'highres');
     const { q, good } = auto();
     mp.setPlaybackQualityRange?.(good ? q : 'tiny', q);
   };
@@ -32,8 +31,8 @@
   // Si aparece un anuncio se corta; mientras tanto va silenciado y a x2 (content.js lo tapa y deja "Saltar" a la vista para un clic real).
   let resume = 0, orphan = 0, wasMuted = null, capped = '', stuck = 0, last = -1;
   setInterval(() => {
-    // Tope de calidad (480p): menos RAM, GPU y datos. Se fija una vez por video.
-    const mp = (document.documentElement.dataset.hiberVq === '1' || document.documentElement.dataset.hiberVqa === '1') && document.getElementById('movie_player');
+    // Calidad automática: se fija una vez por video.
+    const mp = document.documentElement.dataset.hiberVqa === '1' && document.getElementById('movie_player');
     const id = mp?.getVideoData?.().video_id;
     if (id && id !== capped) { capped = id; setQ(mp); }
     const p = on() && document.querySelector('.html5-video-player.ad-showing');
